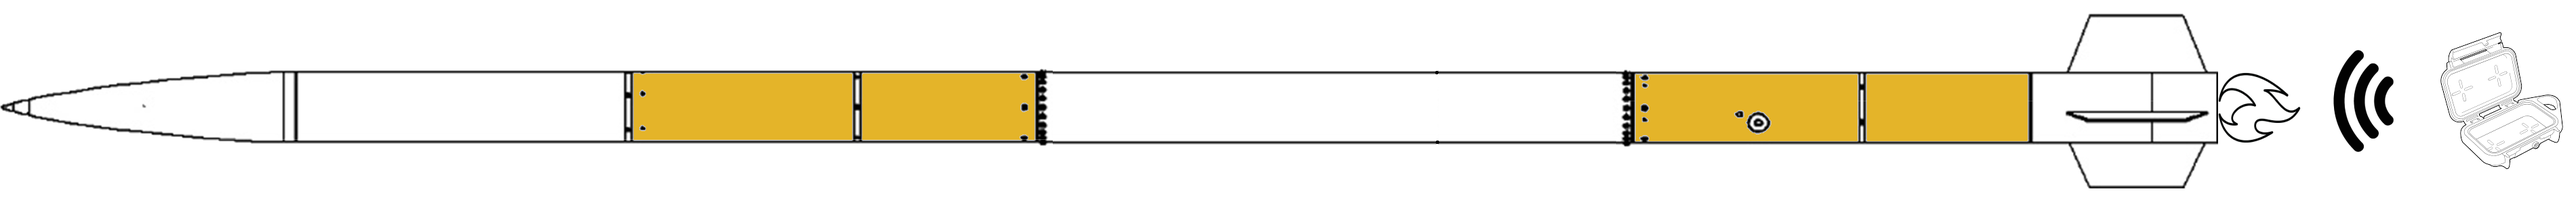
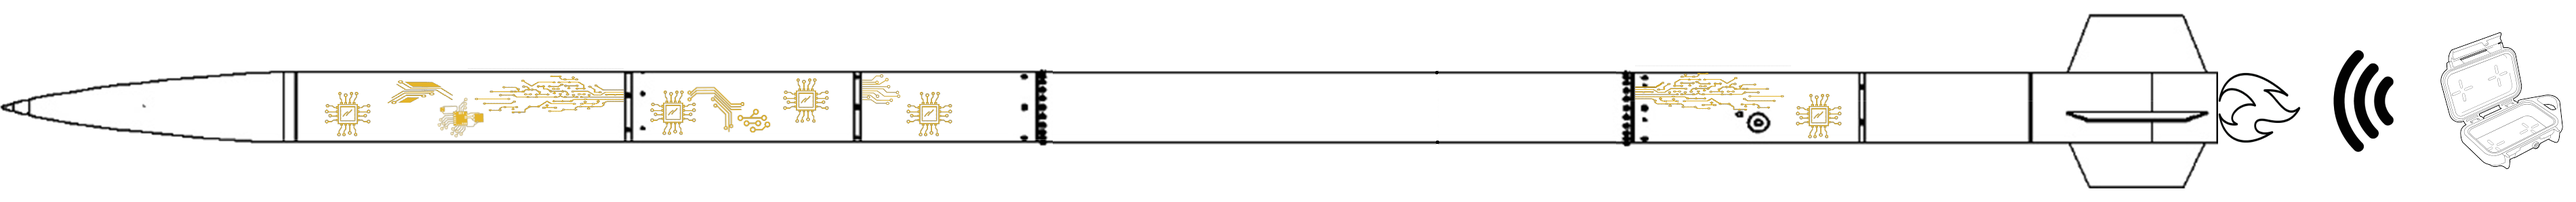
Add better subsystem images

Changed region(s): [[0.1242, 0.3612, 0.4037, 0.6923], [0.6211, 0.3612, 0.8074, 0.7224]]

diff --git a/subsystems.html b/subsystems.html
@@ -113,7 +113,7 @@
                 </ul>
                 <h3>HISTORY</h3>
                 <p>
-                    We have had partial successes with our recovery system since VIDAR III in 2017 (in previous years, the rocket had never reached the recovery phase). For the past 3 years we have had
+                    We have had partial successes with our recovery system since VIDAR III in 2017 (in previous years, the rocket had never reached the recovery phase).
                 </p>
                 <h3>CURRENTLY WORKING ON</h3>
                 <ul>
